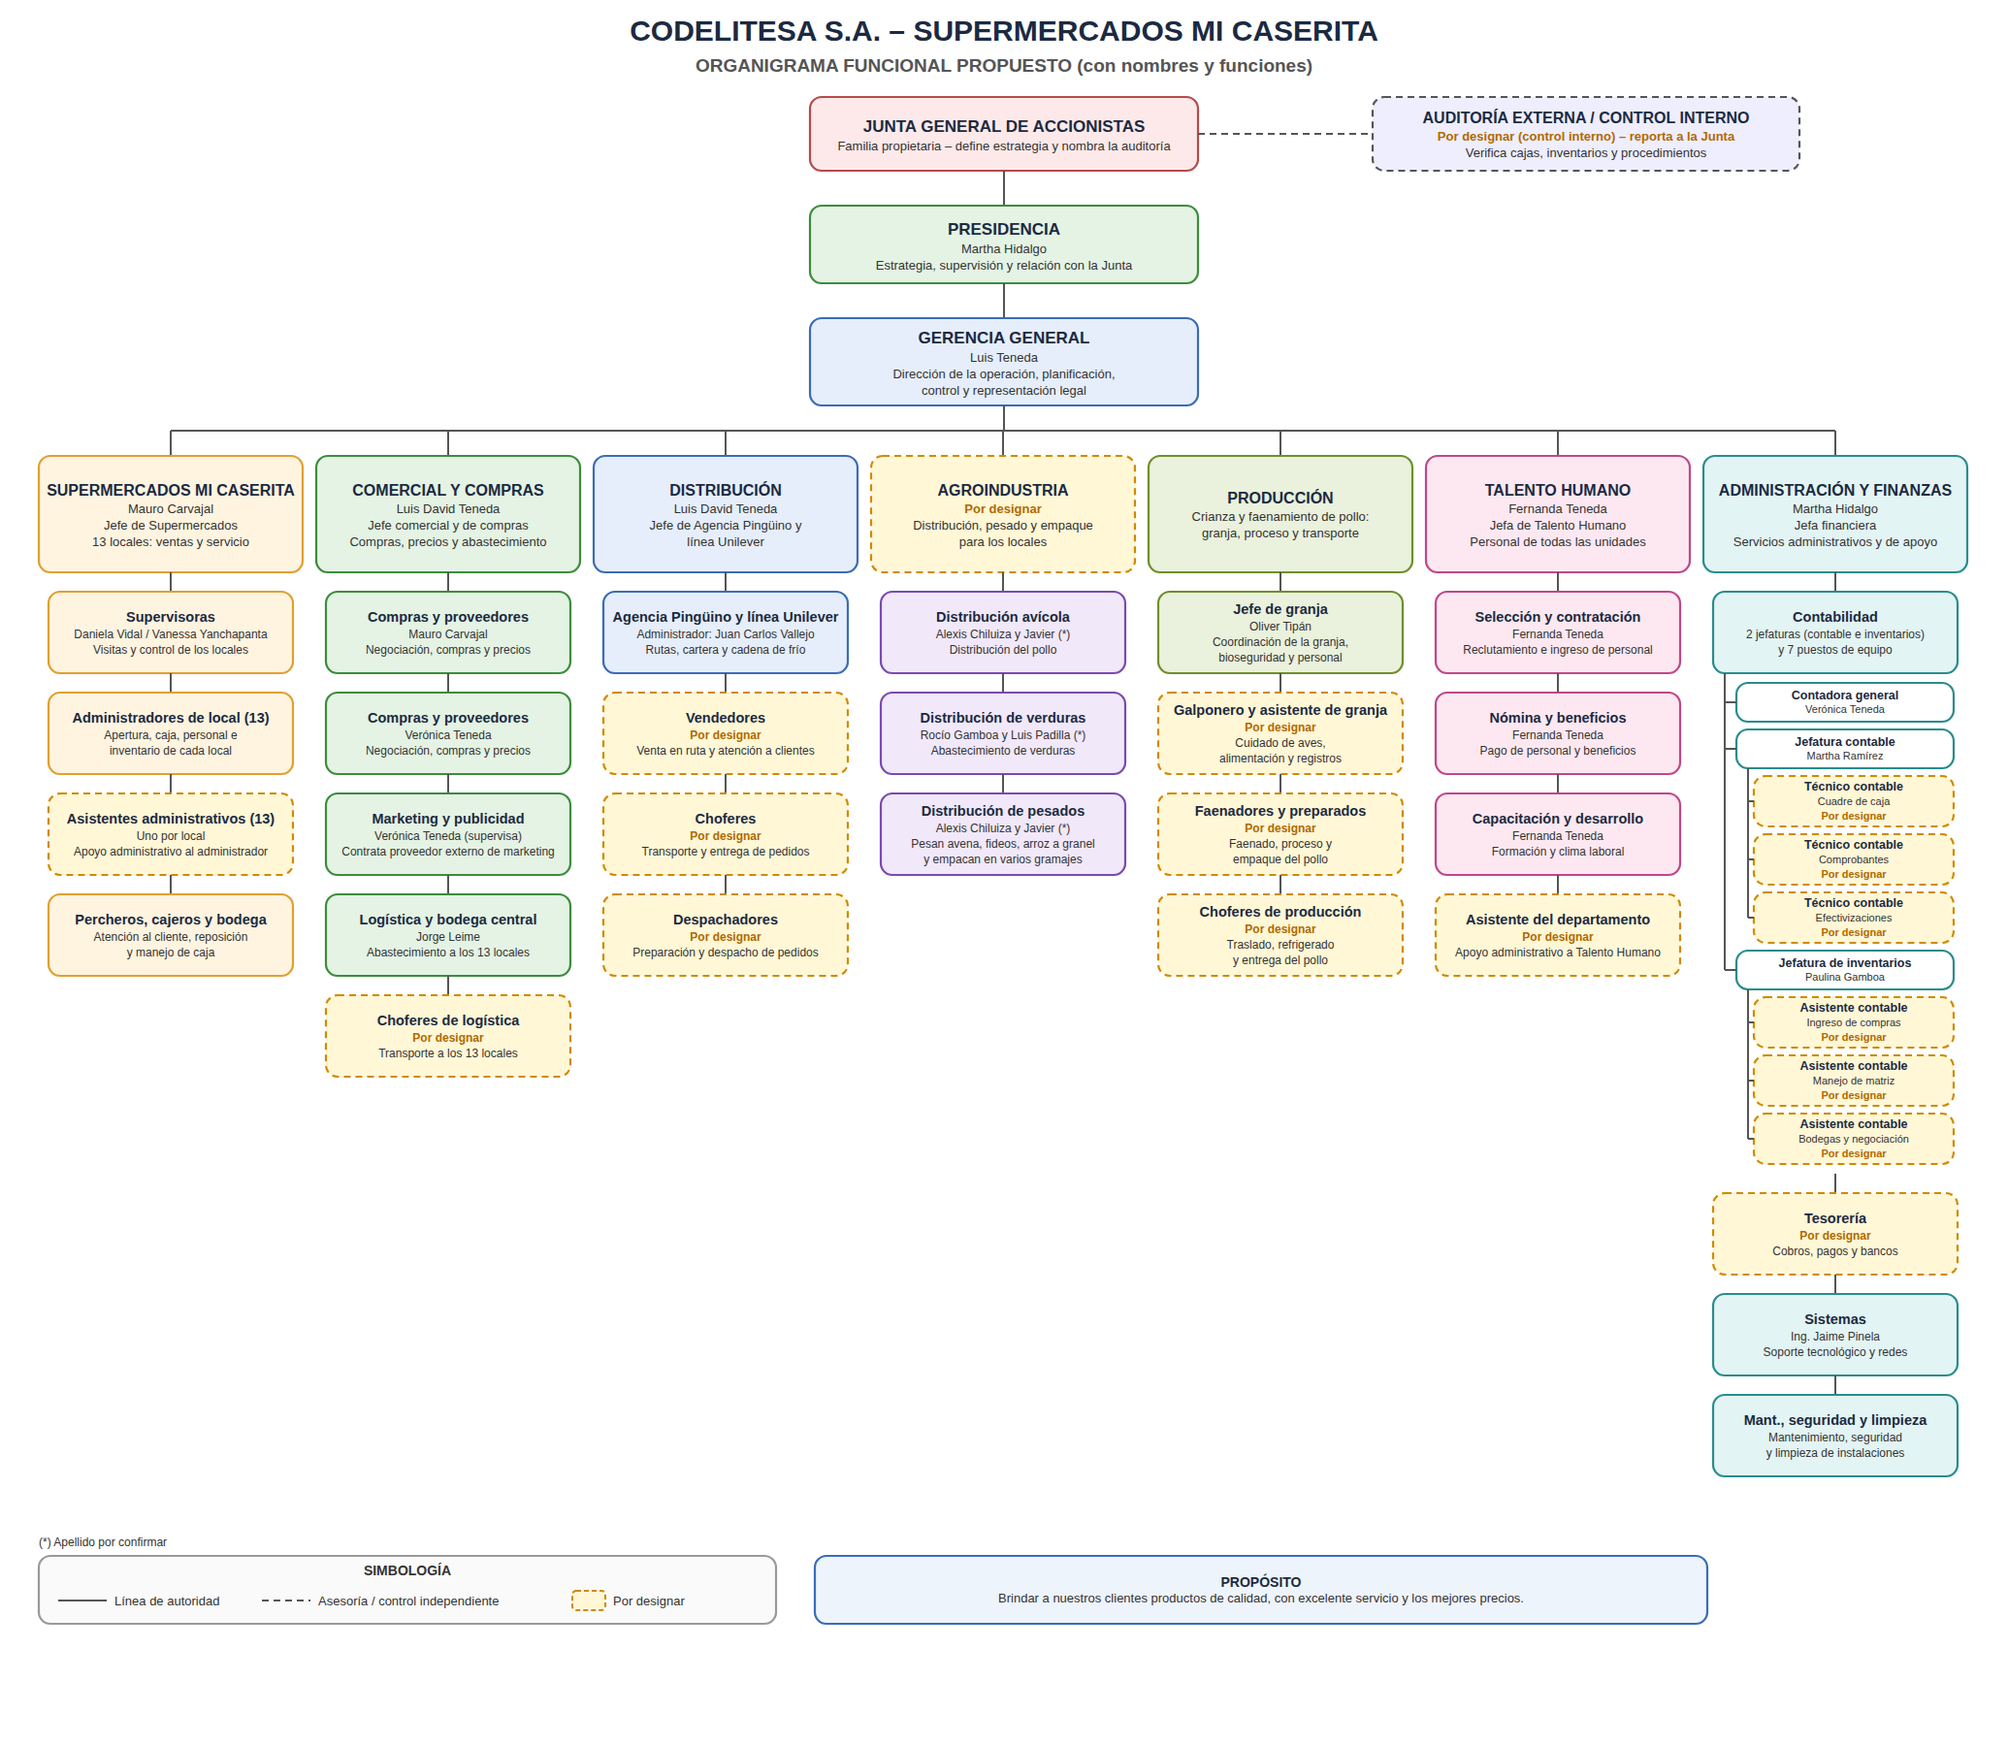
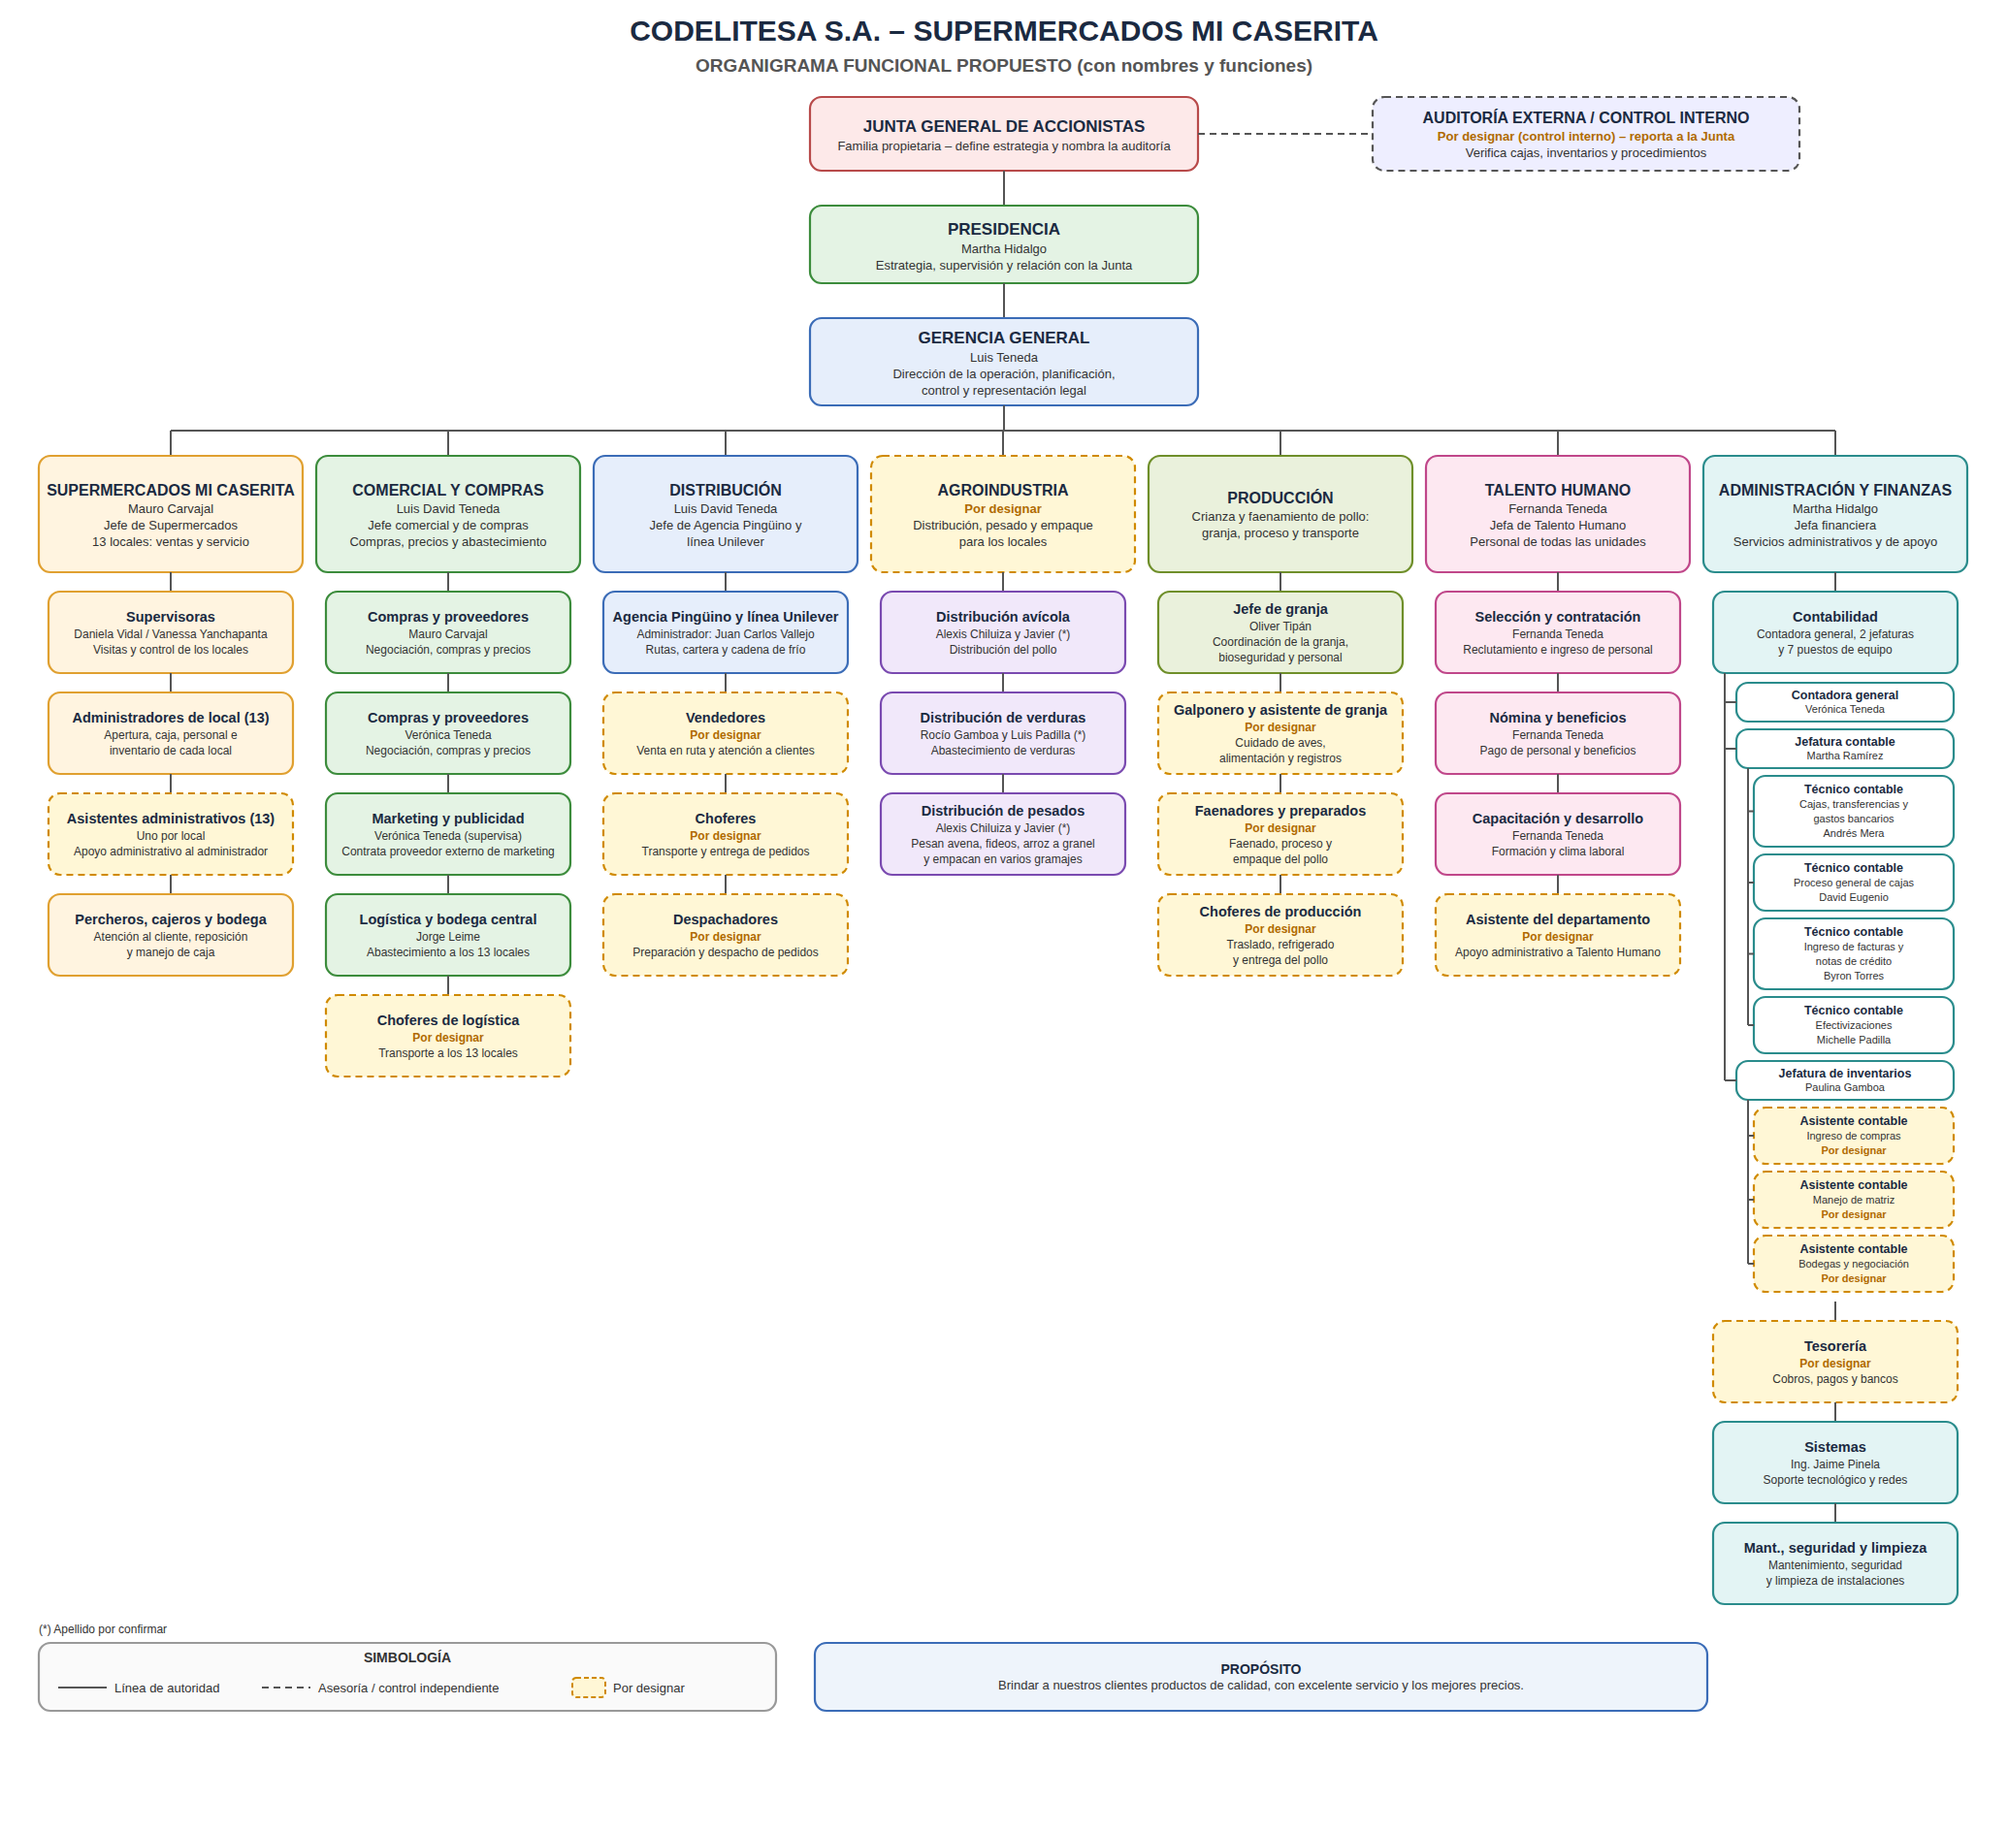
Nombrar cuatro técnicos contables bajo la Jefatura contable
Claude-Session: https://claude.ai/code/session_012Bb6M7hyJwwVBojnoHpByV

diff --git a/organigrama/gen.py b/organigrama/gen.py
@@ -25,7 +25,7 @@ class S:
 def build(func):
     s=S()
     title="ORGANIGRAMA FUNCIONAL PROPUESTO (con nombres y funciones)" if func else "ORGANIGRAMA ESTRUCTURAL PROPUESTO (sin nombres)"
-    H=1700 if func else 1300
+    H=1790 if func else 1360
     s.text(W/2,42,"CODELITESA S.A. – SUPERMERCADOS MI CASERITA",30,weight="700",fill="#1b2a41")
     s.text(W/2,74,title,19,weight="600",fill="#555")
     cx=W/2
@@ -82,12 +82,13 @@ def build(func):
         ("Capacitación y desarrollo",["Fernanda Teneda","Formación y clima laboral"],0),
         ("Asistente del departamento",["Por designar","Apoyo administrativo a Talento Humano"],1)]),
      ("ADMINISTRACIÓN Y FINANZAS",["Martha Hidalgo","Jefa financiera","Servicios administrativos y de apoyo"],"",[
-        ("Contabilidad",["2 jefaturas (contable e inventarios)","y 7 puestos de equipo"],0,[
+        ("Contabilidad",["Contadora general, 2 jefaturas","y 7 puestos de equipo"],0,[
             ("Contadora general",["Verónica Teneda"],0,1),
             ("Jefatura contable",["Martha Ramírez"],0,1),
-            ("Técnico contable",["Cuadre de caja","Por designar"],1,2),
-            ("Técnico contable",["Comprobantes","Por designar"],1,2),
-            ("Técnico contable",["Efectivizaciones","Por designar"],1,2),
+            ("Técnico contable",["Cajas, transferencias y","gastos bancarios","Andrés Mera"],0,2),
+            ("Técnico contable",["Proceso general de cajas","David Eugenio"],0,2),
+            ("Técnico contable",["Ingreso de facturas y","notas de crédito","Byron Torres"],0,2),
+            ("Técnico contable",["Efectivizaciones","Michelle Padilla"],0,2),
             ("Jefatura de inventarios",["Paulina Gamboa"],0,1),
             ("Asistente contable",["Ingreso de compras","Por designar"],1,2),
             ("Asistente contable",["Manejo de matriz","Por designar"],1,2),
@@ -114,11 +115,12 @@ def build(func):
                 sg=8; pos=[]
                 y+=10
                 for (st,sl,sp,lv) in subs:
-                    sh=(40 if func else 34) if lv==1 else (52 if func else 44)
+                    nl=len(sl) if func else (len(sl)-1 if len(sl)>1 else 0)
+                    sh=(40 if func else 34) if lv==1 else int(16.5+15*nl+12)
                     ind=34 if lv==1 else 52
                     pend="Por designar" in sl[-1]
                     if func: s.box(x+ind,y,w-ind-14,sh,st,sl,fill="#fff",stroke=stroke,pending=pend,tsize=12.5,lsize=11)
-                    else: s.box(x+ind,y,w-ind-14,sh,st,sl[:1] if (lv==2 and len(sl)>1 and "Por designar" in sl[-1]) else [],fill="#fff",stroke=stroke,tsize=12.5,lsize=11)
+                    else: s.box(x+ind,y,w-ind-14,sh,st,sl[:-1] if (lv==2 and len(sl)>1) else [],fill="#fff",stroke=stroke,tsize=12.5,lsize=11)
                     pos.append((y,sh,lv)); y+=sh+sg
                 l1=[p for p in pos if p[2]==1]
                 s.line(x+22,pos[0][0]-10,x+22,l1[-1][0]+l1[-1][1]/2)
